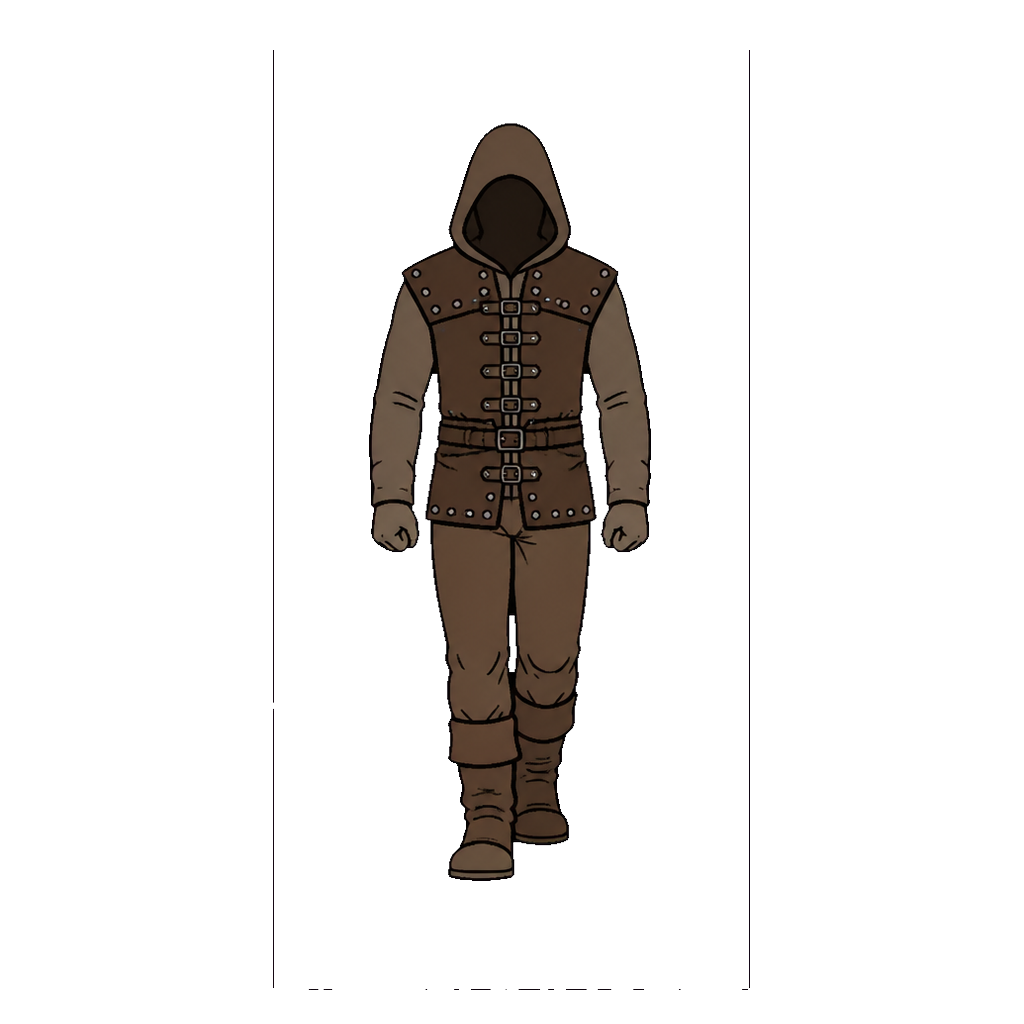
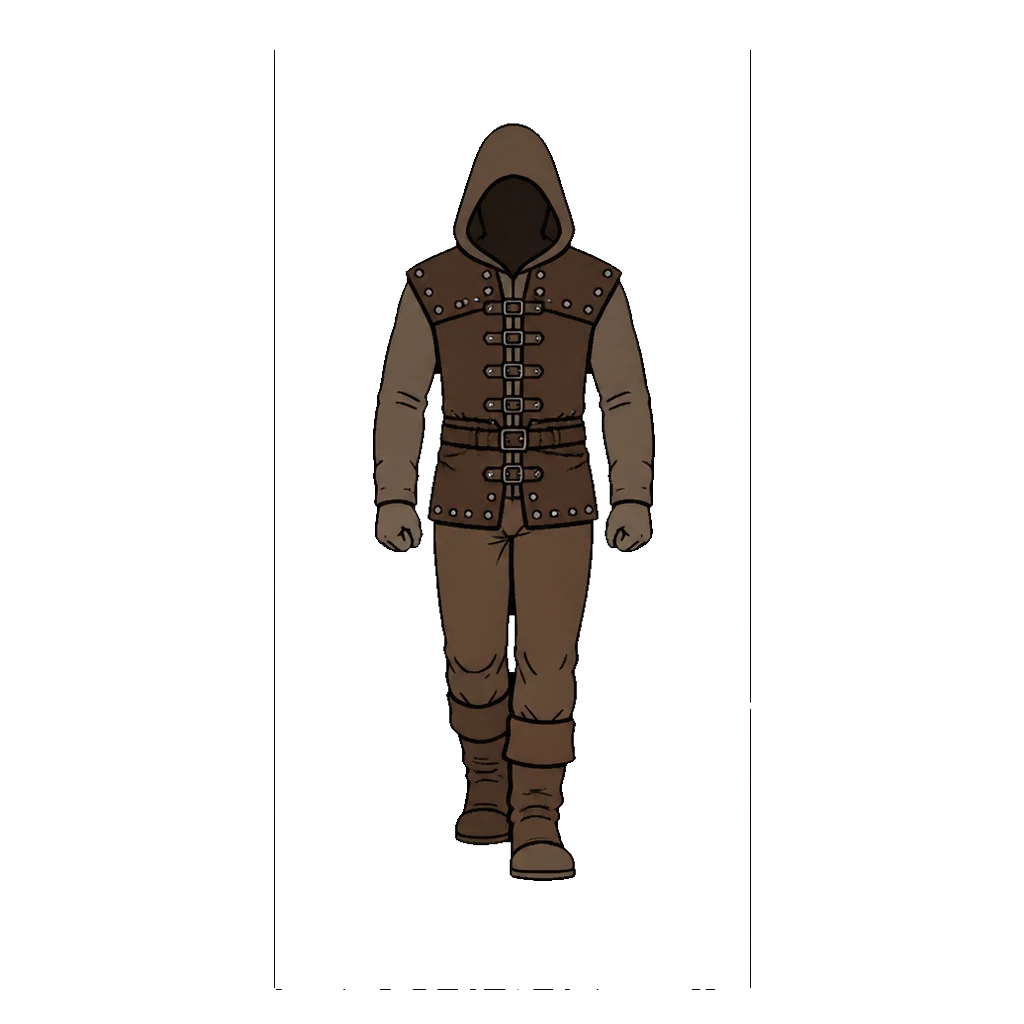
Fase D: personaje a tamano real y piernas que alternan de verdad
Dos veredictos de Rodrigo en el telefono, dos fallos reales:

- "se ve muy pequeno el personaje": Caminante metia el Image.asset
  (lienzo cuadrado 1024x1024) en una caja angosta (alto*0.6 de ancho),
  y BoxFit.contain la encogia al lado corto -la figura quedaba a un
  ~60% del alto pedido, con hueco vacio arriba y abajo. Caja cuadrada
  ahora en Caminante y en el ancho de anclaje de CaminanteEnSenda.
  Prueba de regresion nueva, verificada por mutacion.

- "el paso" se ve raro, aclarado con AskUserQuestion: si lee como
  caminar, pero tosco. Causa real: marcha_02/03 eran duplicados
  literales de marcha_00/01, no espejados, asi que el ciclo mostraba
  la misma pierna adelante dos veces seguidas en vez de alternar. La
  figura es simetrica de frente (sin arma horneada en el cuerpo), asi
  que un espejo horizontal de "pierna izquierda adelante" ES "pierna
  derecha adelante" -gratis, sin llamar al modelo.
  experimento_figura_mundo.py gano --completar-marcha para esto.

diff --git a/app/lib/pantallas/aventura/mundo/caminante.dart b/app/lib/pantallas/aventura/mundo/caminante.dart
@@ -77,7 +77,13 @@ class _CaminanteState extends State<Caminante> with SingleTickerProviderStateMix
   @override
   Widget build(BuildContext context) {
     final Animation<double>? avance = widget.avance;
-    final Size medida = Size(widget.alto * 0.6, widget.alto);
+    // Cuadrado, no un rectángulo angosto: el lienzo maestro del arte real es
+    // 1024×1024 (misma convención que las capas del avatar detallado), y con
+    // una caja más angosta que alta, `BoxFit.contain` la encoge al ancho —el
+    // lado corto— y sobra alto vacío arriba y abajo: la figura terminaba
+    // pintada a un 60 % del alto pedido. Con la caja cuadrada, el lienzo
+    // entra exacto y la figura usa el alto completo.
+    final Size medida = Size(widget.alto, widget.alto);
     return Semantics(
       label: widget.semantica,
       child: Transform.flip(
@@ -146,7 +152,10 @@ class CaminanteEnSenda extends StatelessWidget {
     // El arte es de frente; espejo horizontal según hacia dónde se avanza.
     // `>= `, no `>`: un tramo vertical puro (misma x) no gira de espaldas.
     final bool miraDerecha = destino.dx >= origen.dx;
-    final double ancho = alto * 0.6;
+    // Mismo ancho que `Caminante` usa por dentro (cuadrado, `alto` × `alto`)
+    // — si no coincide, el anclaje de los pies queda centrado sobre una caja
+    // que no es la que en verdad se pinta.
+    final double ancho = alto;
 
     // Origen y destino iguales (nada que recorrer, típicamente al llegar a
     // una parada y quedarse): `Caminante` con `avance` no nulo y longitud

diff --git a/app/test/caminante_test.dart b/app/test/caminante_test.dart
@@ -32,6 +32,27 @@ PintorDeCaminanteDeMentira _pintorDe(WidgetTester tester) {
 }
 
 void main() {
+  group('tamaño', () {
+    testWidgets('la caja es cuadrada (alto × alto), no un rectángulo angosto',
+        (WidgetTester tester) async {
+      // El lienzo maestro del arte real es 1024×1024. Con una caja más
+      // angosta que alta, `BoxFit.contain` la encoge al ancho —el lado
+      // corto— y la figura se pinta muy por debajo del alto pedido: el bug
+      // real que Rodrigo vio como "se ve muy pequeño el personaje".
+      // `Center`, no `home:` a secas: una ruta sin `Scaffold` le da a su
+      // contenido restricciones AJUSTADAS al tamaño de pantalla completo —
+      // `SizedBox` no puede elegir su propio tamaño contra eso—, y con
+      // `Center` de por medio las restricciones vuelven a ser sueltas, como
+      // las que `CaminanteEnSenda` ya le da dentro de un `Stack`/`Positioned`.
+      await tester.pumpWidget(
+        MaterialApp(home: Center(child: Caminante(ciclo: CicloDeMarcha(_figura), alto: 100))),
+      );
+      await tester.pump();
+
+      expect(tester.getSize(find.byType(Caminante)), const Size(100, 100));
+    });
+  });
+
   group('en reposo (avance nulo)', () {
     testWidgets('corre varios ciclos de reloj sin lanzar', (WidgetTester tester) async {
       await tester.pumpWidget(

diff --git a/scripts/experimento_figura_mundo.py b/scripts/experimento_figura_mundo.py
@@ -31,6 +31,7 @@ falta una base fija que editar.
     python scripts/experimento_figura_mundo.py                    # nada, valida el entorno
     python scripts/experimento_figura_mundo.py --aplicar           # marcha, cuesta céntimos
     python scripts/experimento_figura_mundo.py --aplicar --pose reposo
+    python scripts/experimento_figura_mundo.py --completar-marcha  # espejo, gratis, sin llamar al modelo
 
 Ojo: `--pose marcha --aplicar` vuelve a escribir sobre `marcha_00/01.webp`
 —los ya aprobados—, no se corre dos veces por accidente.
@@ -185,6 +186,33 @@ def recortar_casillas(lamina: Image.Image, cantidad: int, *, escala_independient
     return casillas
 
 
+def completar_marcha_por_espejo() -> None:
+    """`marcha_02`/`marcha_03` como espejo horizontal de `marcha_00`/`01`.
+
+    Rodrigo, viendo el piloto de 2 poses duplicadas sin más (`02`=`00`,
+    `03`=`01` tal cual): "el paso [...] se lee, pero tosco" — confirmado
+    con `AskUserQuestion` que SÍ lee como caminar, solo falta que las piernas
+    alternen. Duplicar sin espejar repetía la MISMA pierna adelante dos veces
+    seguidas en vez de alternar izquierda/derecha, que es media zancada real.
+
+    Espejar en vez de generar de nuevo: la figura es simétrica de frente (sin
+    arma horneada en el cuerpo — eso es un prop aparte, ver el plan), así que
+    un espejo horizontal de "contacto, pierna izquierda adelante" ES,
+    literalmente, "contacto, pierna derecha adelante". Costo: US$0. El
+    espejo de `Caminante` por dirección (`miraDerecha`) compone limpio con
+    este —ver su comentario en `caminante.dart`—, así que no hace falta
+    tocar nada del lado Flutter.
+    """
+    for base, espejo in (("marcha_00", "marcha_02"), ("marcha_01", "marcha_03")):
+        origen = ASSETS / f"{base}.webp"
+        if not origen.exists():
+            raise SystemExit(f"Falta {origen} — corré --pose marcha --aplicar primero.")
+        imagen = Image.open(origen).convert("RGBA")
+        destino = ASSETS / f"{espejo}.webp"
+        imagen.transpose(Image.FLIP_LEFT_RIGHT).save(destino, "WEBP", lossless=False, quality=90)
+        print(f"{origen.name} espejado -> {destino}")
+
+
 def main(argv: list[str] | None = None) -> int:
     p = argparse.ArgumentParser(description=__doc__, formatter_class=argparse.RawDescriptionHelpFormatter)
     p.add_argument("--aplicar", action="store_true", help="Llama al modelo. Cuesta dinero.")
@@ -194,7 +222,16 @@ def main(argv: list[str] | None = None) -> int:
         default="marcha",
         help="Qué lámina pedir y procesar.",
     )
+    p.add_argument(
+        "--completar-marcha",
+        action="store_true",
+        help="Genera marcha_02/03 espejando 00/01 (gratis, sin llamar al modelo) y termina.",
+    )
     args = p.parse_args(argv)
+
+    if args.completar_marcha:
+        completar_marcha_por_espejo()
+        return 0
 
     prompt = PROMPT if args.pose == "marcha" else PROMPT_REPOSO
     nombre_lamina = f"lamina_{args.pose}_acero_masculino.png"

diff --git a/docs/planes/mundo-caminable.md b/docs/planes/mundo-caminable.md
@@ -237,11 +237,41 @@ atlas), `cacheWidth` obligatorio, `RepaintBoundary`, `gaplessPlayback`.
    también pinta la imagen real"); `experimento_mundo_test.dart` se reescribió
    para leer marcha/reposo de la ruta real de la `Image` (`contains('marcha_')`
    / `contains('reposo_')`) en vez de depender del pintor de mentira, que ya
-   no aparece nunca para esta combinación. **Pendiente: el segundo APK a
-   Rodrigo y su veredicto** — pregunta única: ¿2 fotogramas de marcha + 2 de
-   reposo ya se leen como un personaje que camina y descansa? Si no, ni 6 ni
-   48 lo arreglan — se para acá, antes de generar la lámina completa (Fase
-   E).
+   no aparece nunca para esta combinación.
+
+   **Segundo veredicto: "se ve muy pequeño el personaje."** Diagnosticado con
+   capturas reales, sin suposición: `Caminante` envolvía el `Image.asset` en
+   una caja angosta (`alto*0.6` de ancho, `alto` de alto), pero el lienzo
+   maestro del arte real es cuadrado (1024×1024, misma convención que las
+   capas del avatar). `BoxFit.contain` encogía el cuadrado al lado corto —el
+   ancho— y la figura terminaba a un ~60 % del alto pedido, con espacio vacío
+   arriba y abajo. Arreglado en `caminante.dart`: la caja pasa a ser cuadrada
+   (`alto`×`alto`) tanto en `Caminante` como en el ancho de anclaje de
+   `CaminanteEnSenda`, para que el anclaje de los pies siga coincidiendo con
+   la caja que en verdad se pinta. Nueva prueba de regresión
+   ("la caja es cuadrada, no un rectángulo angosto") verificada por mutación.
+   Confirmado en el teléfono con capturas reales: el personaje se para y
+   camina con buen tamaño, proporcionado contra las paradas.
+
+   **Tercer veredicto, con `AskUserQuestion` para no adivinar:** "el paso" se
+   veía raro. Aclarado — sí lee como que camina, pero tosco, esperable con
+   solo contacto+paso. Causa real, no solo "faltan poses": `marcha_02`/`03`
+   eran duplicados literales de `marcha_00`/`01` (no espejados), así que el
+   ciclo mostraba la MISMA pierna adelante dos veces seguidas en vez de
+   alternar izquierda/derecha — ni siquiera una media zancada real.
+   Arreglado gratis, sin llamar al modelo: la figura es simétrica de frente
+   (sin arma horneada en el cuerpo, eso es un prop aparte), así que un espejo
+   horizontal de "contacto, pierna izquierda adelante" ES "contacto, pierna
+   derecha adelante". `scripts/experimento_figura_mundo.py --completar-marcha`
+   genera `marcha_02`/`03` espejando `00`/`01` con `Image.transpose`. Compone
+   limpio con el espejo por dirección que ya hace `Caminante`
+   (`miraDerecha`), sin tocar Flutter. **Pendiente: el veredicto de Rodrigo
+   sobre la alternancia de piernas** — si ahora se lee como una zancada real,
+   Fase D queda cerrada con verdadero éxito y se pasa a la Fase E (la lámina
+   completa, con poses realmente nuevas en vez de espejadas, y pulido
+   general). Si sigue sin convencer, no hay más margen gratis que probar
+   antes de decidir si vale la pena generar las 2 poses de marcha que faltan
+   de cero.
 6. **Fase E — la lámina completa** de esa combinación + `scripts/laminar.py`.
 7. **Fase F — los props** + anclas de mano medidas en Python.
 8. **Fase G — las 7 láminas restantes**, editadas sobre la primera aprobada.
